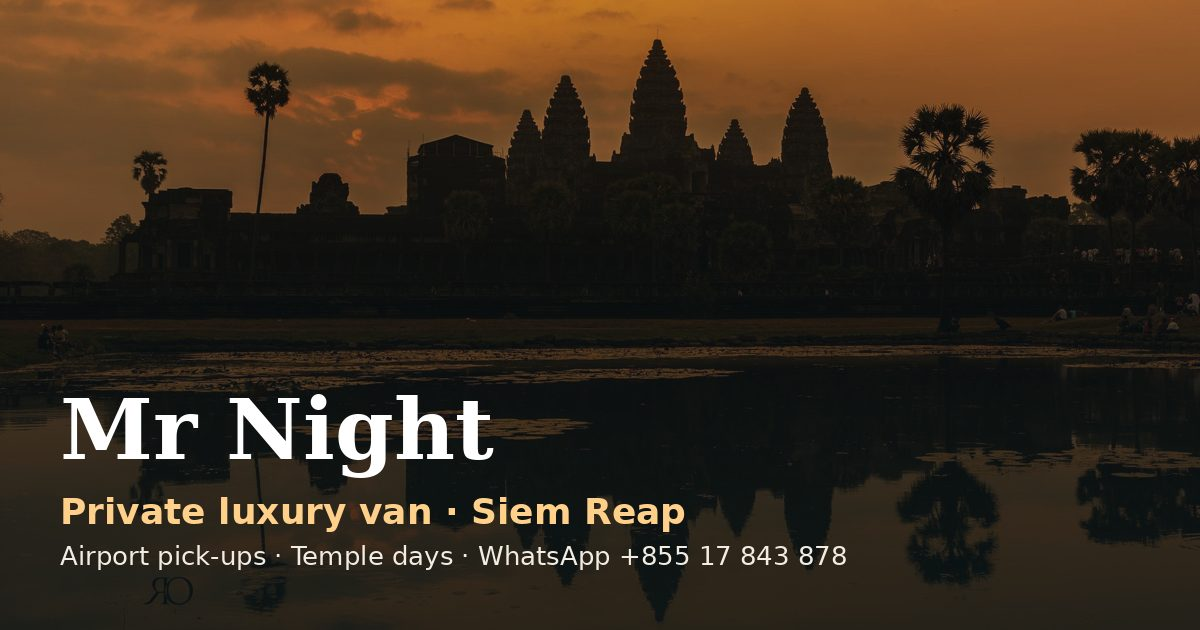
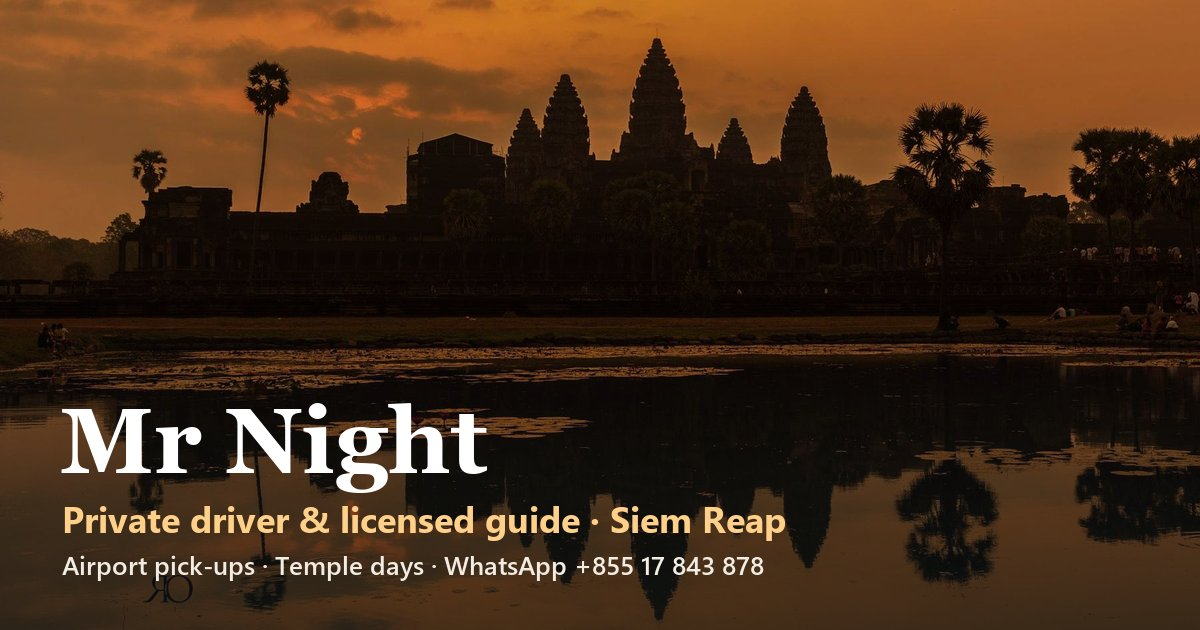
Quick fixes from marketing review; add Night's email
- "All trips and prices" -> "All trips"; drop "Every price is for the whole van" from featured intro
- "Most loved" badge -> "My favourite"; menu "Trips/Prices" -> "Favourites/All trips"
- Tagline, page title and link-preview image: "Private driver & licensed guide · Siem Reap"
- Email (mrnighttourguide@gmail.com) in contact box, footer and JSON-LD
- Header menu: no wrapping; compact (two links hidden) at 821-1320px; tagline hidden in header below 720px and 821-960px, wraps in footer

diff --git a/src/render.js b/src/render.js
@@ -162,7 +162,8 @@ function render(raw, opts) {
   }
 
   /* ---------- head ---------- */
-  var title = T('seo.title', brandName + ' \u00b7 Private Luxury Van in Siem Reap');
+  var email = /^[^\s@<>"]+@[^\s@<>"]+\.[^\s@<>"]+$/.test(str(C.email)) ? str(C.email) : '';
+  var title = T('seo.title', brandName + ' \u00b7 Private Driver & Licensed Guide in Siem Reap');
   var desc = T('seo.description', name + ' \u2013 private luxury van with driver in Siem Reap, Cambodia.');
   var ogImg = BASE + 'images/og-image.jpg';
   var head = '<!doctype html>\n<html lang="en">\n<head>\n<meta charset="utf-8">\n<meta name="viewport" content="width=device-width, initial-scale=1, viewport-fit=cover">\n' +
@@ -172,7 +173,7 @@ function render(raw, opts) {
     '<meta property="og:url" content="' + esc(BASE) + '">\n<meta property="og:title" content="' + esc(title) + '">\n' +
     '<meta property="og:description" content="' + esc(desc) + '">\n<meta property="og:image" content="' + esc(ogImg) + '">\n' +
     '<meta property="og:image:width" content="1200">\n<meta property="og:image:height" content="630">\n' +
-    '<meta property="og:image:alt" content="' + esc(brandName) + ', private luxury van in Siem Reap">\n' +
+    '<meta property="og:image:alt" content="' + esc(brandName) + ', private driver and licensed guide in Siem Reap">\n' +
     '<meta name="twitter:card" content="summary_large_image">\n<meta name="twitter:image" content="' + esc(ogImg) + '">\n' +
     '<link rel="icon" href="favicon.svg" type="image/svg+xml">\n<link rel="icon" href="favicon-32.png" sizes="32x32" type="image/png">\n<link rel="apple-touch-icon" href="apple-touch-icon.png">\n' +
     '<link rel="preconnect" href="https://fonts.googleapis.com"><link rel="preconnect" href="https://fonts.gstatic.com" crossorigin>\n' +
@@ -180,7 +181,7 @@ function render(raw, opts) {
     '<link rel="stylesheet" href="css/style.css">\n' +
     '<script type="application/ld+json">' + JSON.stringify({
       '@context': 'https://schema.org', '@type': 'LocalBusiness', name: brandName, alternateName: [name, str(C.full_name)].filter(function (x, i, a) { return x && x !== brandName && a.indexOf(x) === i; }), url: BASE, image: ogImg, description: desc,
-      telephone: '+' + num, address: { '@type': 'PostalAddress', addressLocality: 'Siem Reap', addressCountry: 'KH' }
+      telephone: '+' + num, email: email || undefined, address: { '@type': 'PostalAddress', addressLocality: 'Siem Reap', addressCountry: 'KH' }
     }).replace(/</g, '\\u003c') + '</script>\n</head>\n';
 
   var brand = function (style) {
@@ -209,7 +210,7 @@ function render(raw, opts) {
   if (hl && heroTitle.indexOf(esc(hl)) > -1) heroTitle = heroTitle.replace(esc(hl), '<em>' + esc(hl) + '</em>');
   var out = head + '<body>\n<a class="skip" href="#main">Skip to content</a>\n' + opts.icons +
     '<header class="top"><div class="wrap">' + brand() +
-    '<nav class="nav" aria-label="Main"><a href="#trips">Trips</a><a href="#transfers">Prices</a><a href="#van">The van</a><a href="#about">About me</a>' +
+    '<nav class="nav" aria-label="Main"><a href="#trips">Favourites</a><a href="#transfers">All trips</a><a href="#van">The van</a><a href="#about">About me</a>' +
     (showFly ? '<a href="#flying-in">Flying in</a>' : '') + (showBkk ? '<a href="#bangkok">From Bangkok</a>' : '') + '<a href="#faq">FAQ</a>' +
     translateMenu() + waBtn('btn btn-wa btn-sm', T('widget.message'), '<span translate="no" class="notranslate">WhatsApp</span>') + '</nav></div></header>\n<main id="main">\n';
 
@@ -240,7 +241,7 @@ function render(raw, opts) {
     var ph = img ? '<div class="photo ph has-img">' + pic(img, t, '(max-width: 760px) 92vw, 300px')
       : '<div class="photo nophoto" aria-hidden="true">';
     ph += '</div>';
-    return '<article class="fcard' + (hlc ? ' fcard-hl' : '') + '">' + ph + '<div class="body">' + (hlc ? '<span class="hl-tag">Most loved</span>' : '') + (has(f.kicker) ? '<p class="fkick">' + esc(f.kicker) + '</p>' : '') +
+    return '<article class="fcard' + (hlc ? ' fcard-hl' : '') + '">' + ph + '<div class="body">' + (hlc ? '<span class="hl-tag">My favourite</span>' : '') + (has(f.kicker) ? '<p class="fkick">' + esc(f.kicker) + '</p>' : '') +
       '<h3>' + esc(t) + '</h3>' + (has(f.quote) ? '<blockquote class="fq">\u201c' + esc(f.quote) + '\u201d<cite>\u2014 ' + esc(name) + '</cite></blockquote>' : '') +
       (has(f.text) ? '<p>' + rich(f.text) + '</p>' : '') + (has(f.note) ? '<p class="fnote">' + rich(f.note) + '</p>' : '') + (f.show_luggage === true && luggage ? '<p class="fnote lug-s">' + rich(luggage) + '</p>' : '') +
       '<div class="row">' + price(f.price, { from: f.from === true }) + waBtn('btn btn-wa btn-sm', f.message || ('Hi Mr Night, I would like: ' + t), has(f.price) ? 'Book' : 'Ask') + '</div></div></article>';
@@ -274,7 +275,7 @@ function render(raw, opts) {
   var note = (has(TR.included) ? '<span><b>Included:</b> ' + rich(TR.included) + '</span>' : '') + (has(TR.not_included) ? '<span><b>Not included:</b> ' + rich(TR.not_included) + '</span>' : '');
   var G = C.guide || {};
   out += '<section class="sec" id="transfers" aria-labelledby="transfers-h"><div class="wrap"><div class="sec-head"><p class="eyebrow">Airport, temples &amp; city</p>' +
-    '<h2 id="transfers-h">' + esc(T('trips.heading', 'All trips and prices')) + '</h2>' + (has(TR.intro) ? '<p>' + rich(TR.intro) + '</p>' : '') + '</div>' +
+    '<h2 id="transfers-h">' + esc(T('trips.heading', 'All trips')) + '</h2>' + (has(TR.intro) ? '<p>' + rich(TR.intro) + '</p>' : '') + '</div>' +
     (rows ? '<div class="ptable"><div class="h"><span>Trip</span><span>Price per van' + (capacity ? '<small>' + esc(capacity) + '</small>' : '') + '</span><span></span></div>' + rows + (note ? '<div class="pnote">' + note + '</div>' : '') + '</div>' : '') +
     (G.show === true && (has(G.heading) || has(G.text)) ? '<div class="guide"><span class="big" aria-hidden="true"><svg><use href="#badge"/></svg></span><div>' +
       (has(G.heading) ? '<h3>' + esc(G.heading) + '</h3>' : '') + '<p>' + rich(G.text) + '</p></div>' +
@@ -389,7 +390,8 @@ function render(raw, opts) {
   var maps = safeUrl(C.google_maps_url);
   out += '<section class="sec" id="contact" aria-labelledby="contact-h"><div class="wrap"><div class="contact"><div class="bg" aria-hidden="true"></div><div class="in"><div>' +
     '<p class="eyebrow">Book your trip</p><h2 id="contact-h">' + esc(T('contact.heading', 'Message ' + name)) + '</h2>' + (has(C.contact && C.contact.text) ? '<p>' + rich(C.contact.text) + '</p>' : '') +
-    waBtn('btn btn-wa', T('contact.message'), 'Message ' + esc(name) + ' on WhatsApp') + '<a class="num notranslate" translate="no" href="tel:+' + num + '">' + esc(phone) + '</a></div>' +
+    waBtn('btn btn-wa', T('contact.message'), 'Message ' + esc(name) + ' on WhatsApp') + '<a class="num notranslate" translate="no" href="tel:+' + num + '">' + esc(phone) + '</a>' +
+    (email ? '<a class="mail notranslate" translate="no" href="mailto:' + esc(email) + '">' + esc(email) + '</a>' : '') + '</div>' +
     '<div class="mapcard"><div class="map">' + opts.map + '</div><div class="body"><b>Siem Reap town &amp; SAI airport</b><small>Pick-up from any hotel in Siem Reap.</small>' +
     (maps ? '<a class="btn btn-line btn-sm" href="' + esc(maps) + '" target="_blank" rel="noopener noreferrer"><svg class="wa-ico" aria-hidden="true"><use href="#pin"/></svg>Open in Google Maps</a>' : '') + '</div></div></div></div></div></section>\n</main>\n';
 
@@ -397,11 +399,10 @@ function render(raw, opts) {
   var links = [];
   if (maps) links.push('<li><a href="' + esc(maps) + '" target="_blank" rel="noopener noreferrer">Google Maps</a></li>');
   if (safeUrl(C.facebook_url)) links.push('<li><a href="' + esc(safeUrl(C.facebook_url)) + '" target="_blank" rel="noopener noreferrer">Facebook</a></li>');
-  var email = /^[^\s@<>"]+@[^\s@<>"]+\.[^\s@<>"]+$/.test(str(C.email)) ? str(C.email) : '';
   out += '<footer><div class="wrap"><div class="cols"><div>' + brand('color:#fff') + '<p class="foot-about">Private luxury van with driver and licensed guide in Siem Reap, Cambodia. Airport pick-ups, temple days and city transfers.</p></div>' +
     '<div><h2 class="fh">Contact</h2><ul class="flinks"><li><a href="' + esc(wa('')) + '" target="_blank" rel="noopener noreferrer">WhatsApp ' + esc(phone) + '</a></li>' +
     (email ? '<li><a href="mailto:' + esc(email) + '">' + esc(email) + '</a></li>' : '') + links.join('') + '</ul></div>' +
-    '<div><h2 class="fh">Trips</h2><ul class="flinks"><li><a href="#trips">Featured trips</a></li><li><a href="#transfers">All prices</a></li><li><a href="#van">The van</a></li><li><a href="#faq">FAQ</a></li></ul></div></div>' +
+    '<div><h2 class="fh">Trips</h2><ul class="flinks"><li><a href="#trips">Featured trips</a></li><li><a href="#transfers">All trips</a></li><li><a href="#van">The van</a></li><li><a href="#faq">FAQ</a></li></ul></div></div>' +
     '<div class="disc"><p>' + esc(name) + ' is a private driver and licensed guide in Siem Reap, Cambodia.' + (has(C.last_updated) ? ' Last updated ' + esc(C.last_updated) + '.' : '') + '</p>' +
     '<p class="credit">Temple and place photos: Wikimedia Commons contributors, under Creative Commons licences. <a href="credits.html">Photo credits</a></p></div></div></footer>\n';
 

diff --git a/css/style.css b/css/style.css
@@ -802,3 +802,15 @@ html[lang|=km] body,html[lang|=th] body{line-height:1.75}
 .hp-van,.hp-main{margin-bottom:0}
 .hp-main .hp-img,.hp-van .hp-img{aspect-ratio:4/5}
 @media (max-width:600px){.hp-van{margin-bottom:0}}
+/* contact box: email under the phone number */
+.contact .mail{display:inline-flex;align-items:center;min-height:44px;margin-top:2px;color:#f3ece2;font:600 17px/1.2 var(--sans);text-decoration:underline;text-underline-offset:3px;overflow-wrap:anywhere}
+.contact .num+.mail{margin-left:0}
+.contact .in>div>.num,.contact .in>div>.mail{display:flex}
+/* header menu: never wrap; tighter between tablet and laptop widths */
+.nav a{white-space:nowrap}
+@media (min-width:821px) and (max-width:1320px){.nav{gap:14px;font-size:14px}.nav a[href="#transfers"],.nav a[href="#flying-in"]{display:none}}
+@media (min-width:821px) and (max-width:960px){.top .brand small{display:none}}
+/* longer tagline: wrap in the footer, hide in the header on narrow screens */
+.brand small{white-space:normal}
+footer .brand small{display:block;max-width:100%;overflow-wrap:anywhere}
+@media (max-width:720px){.top .brand small{display:none}}
